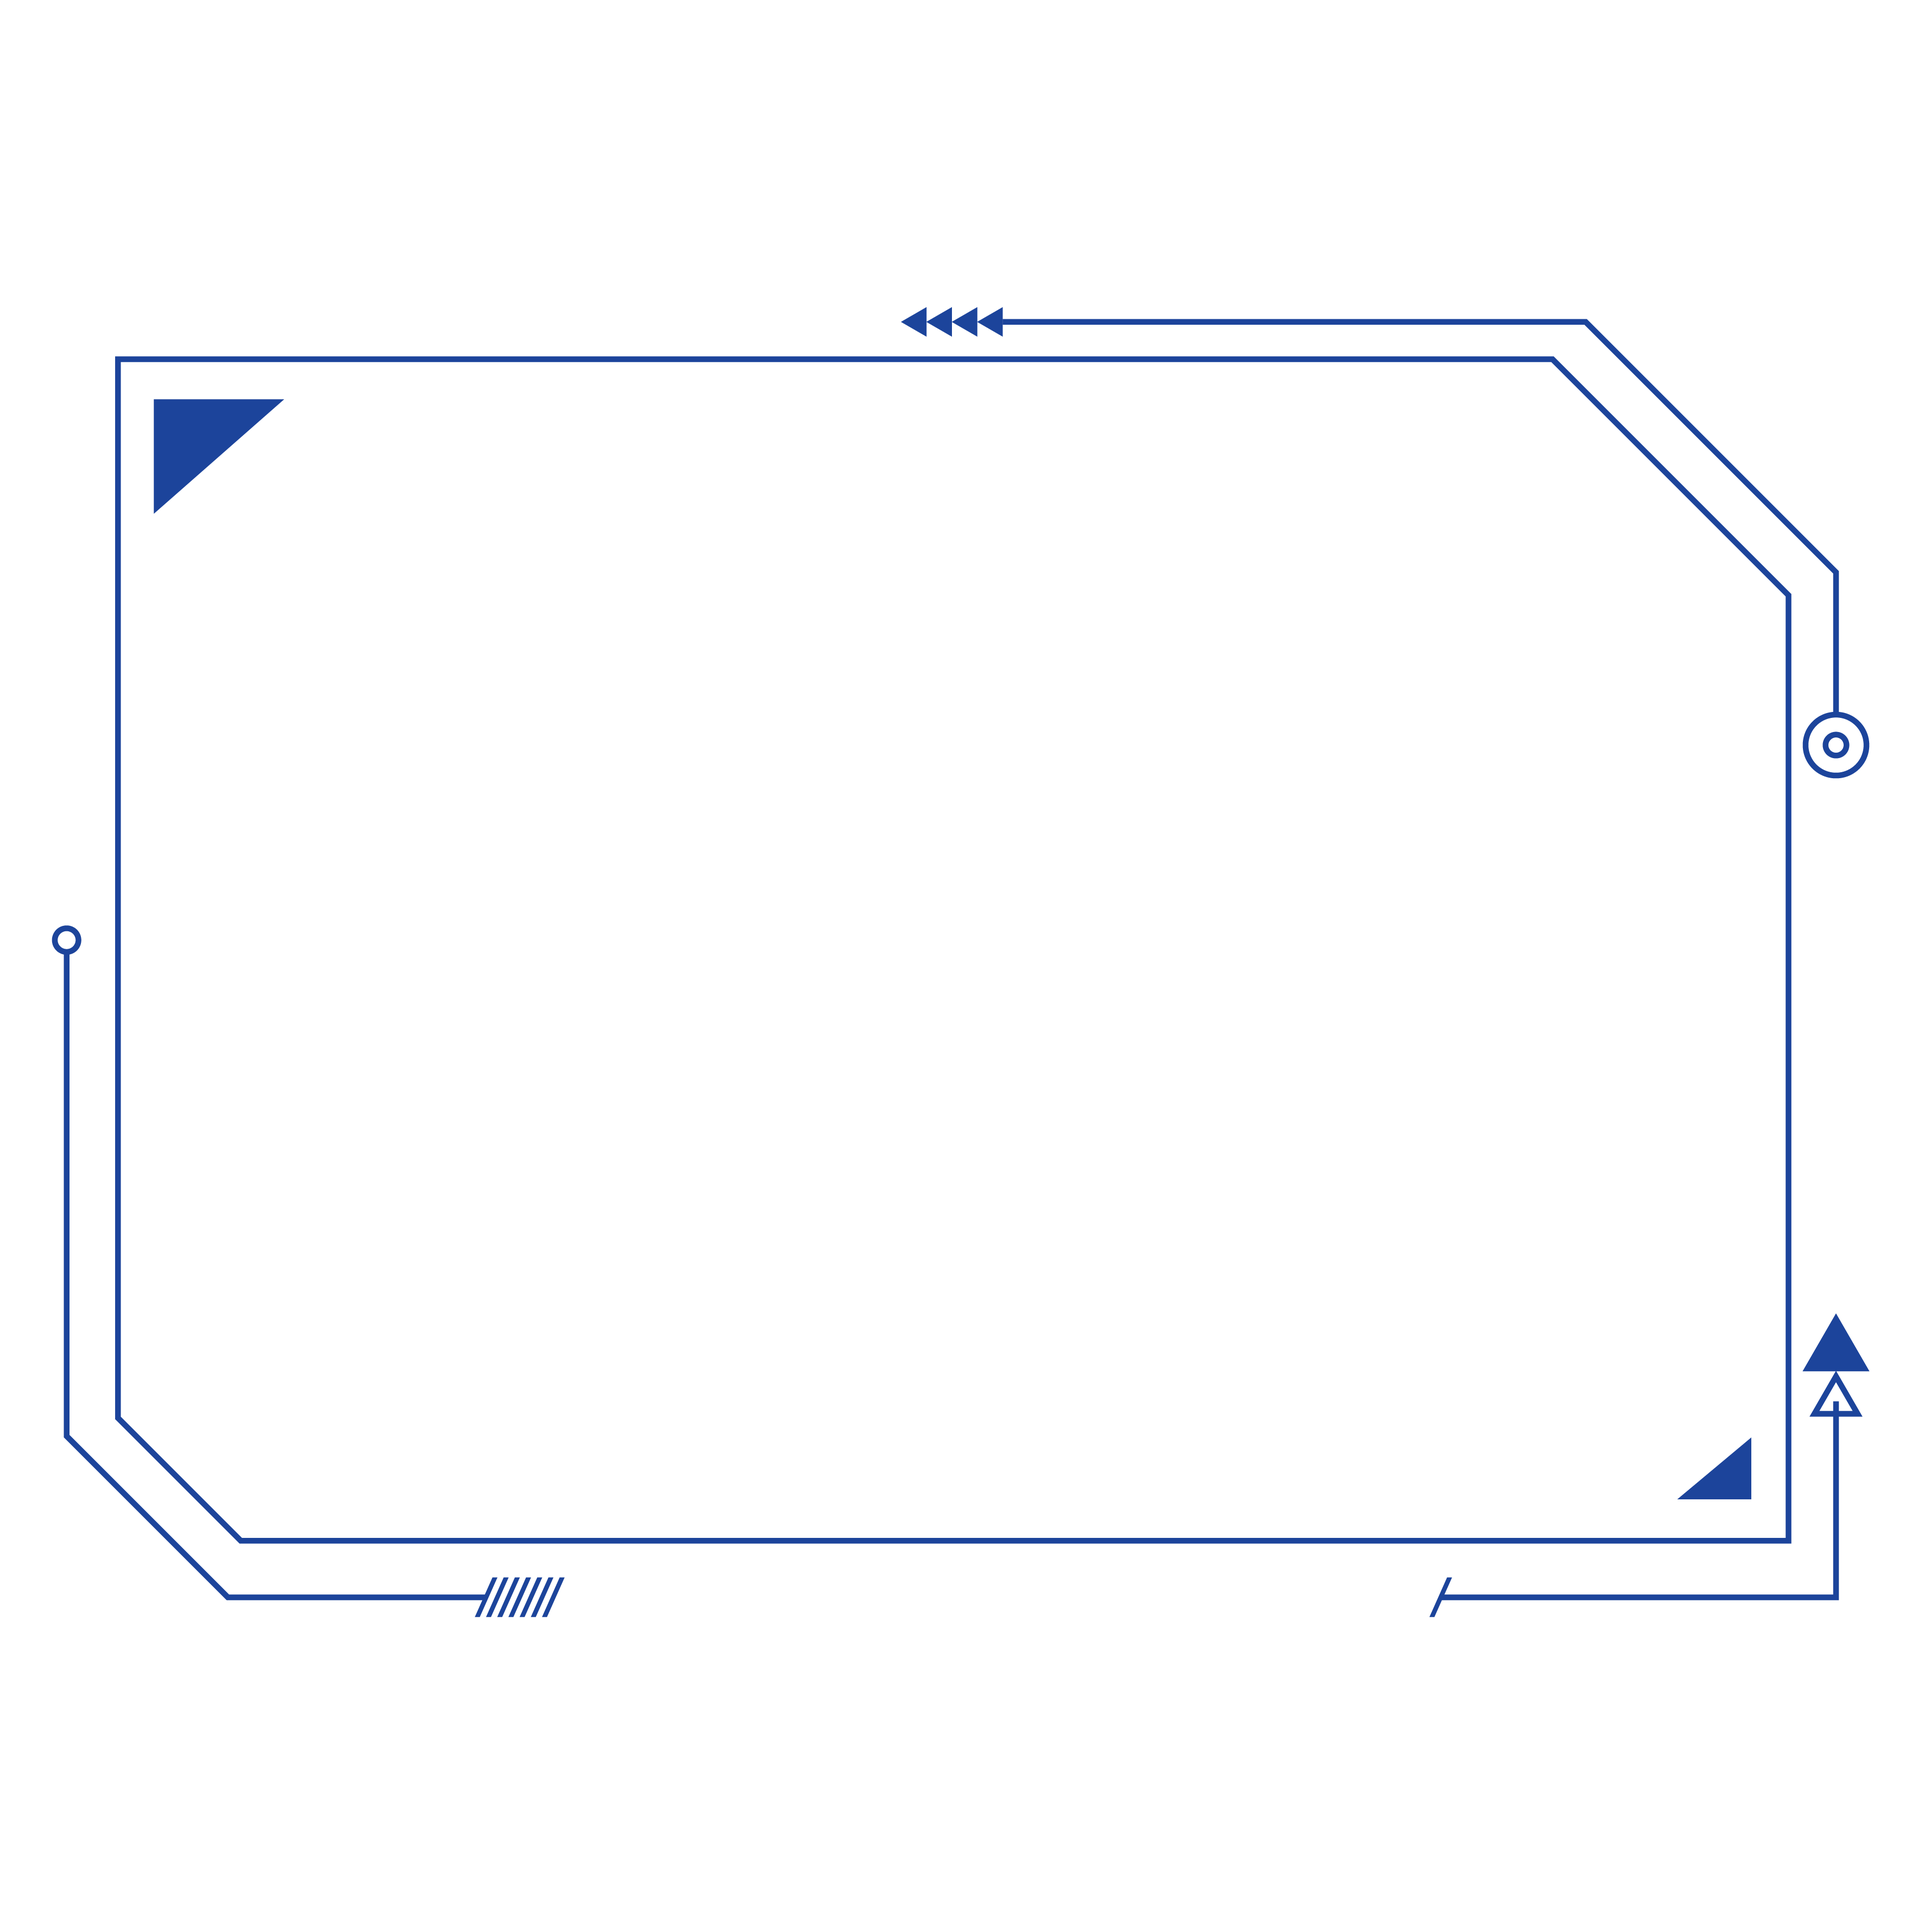
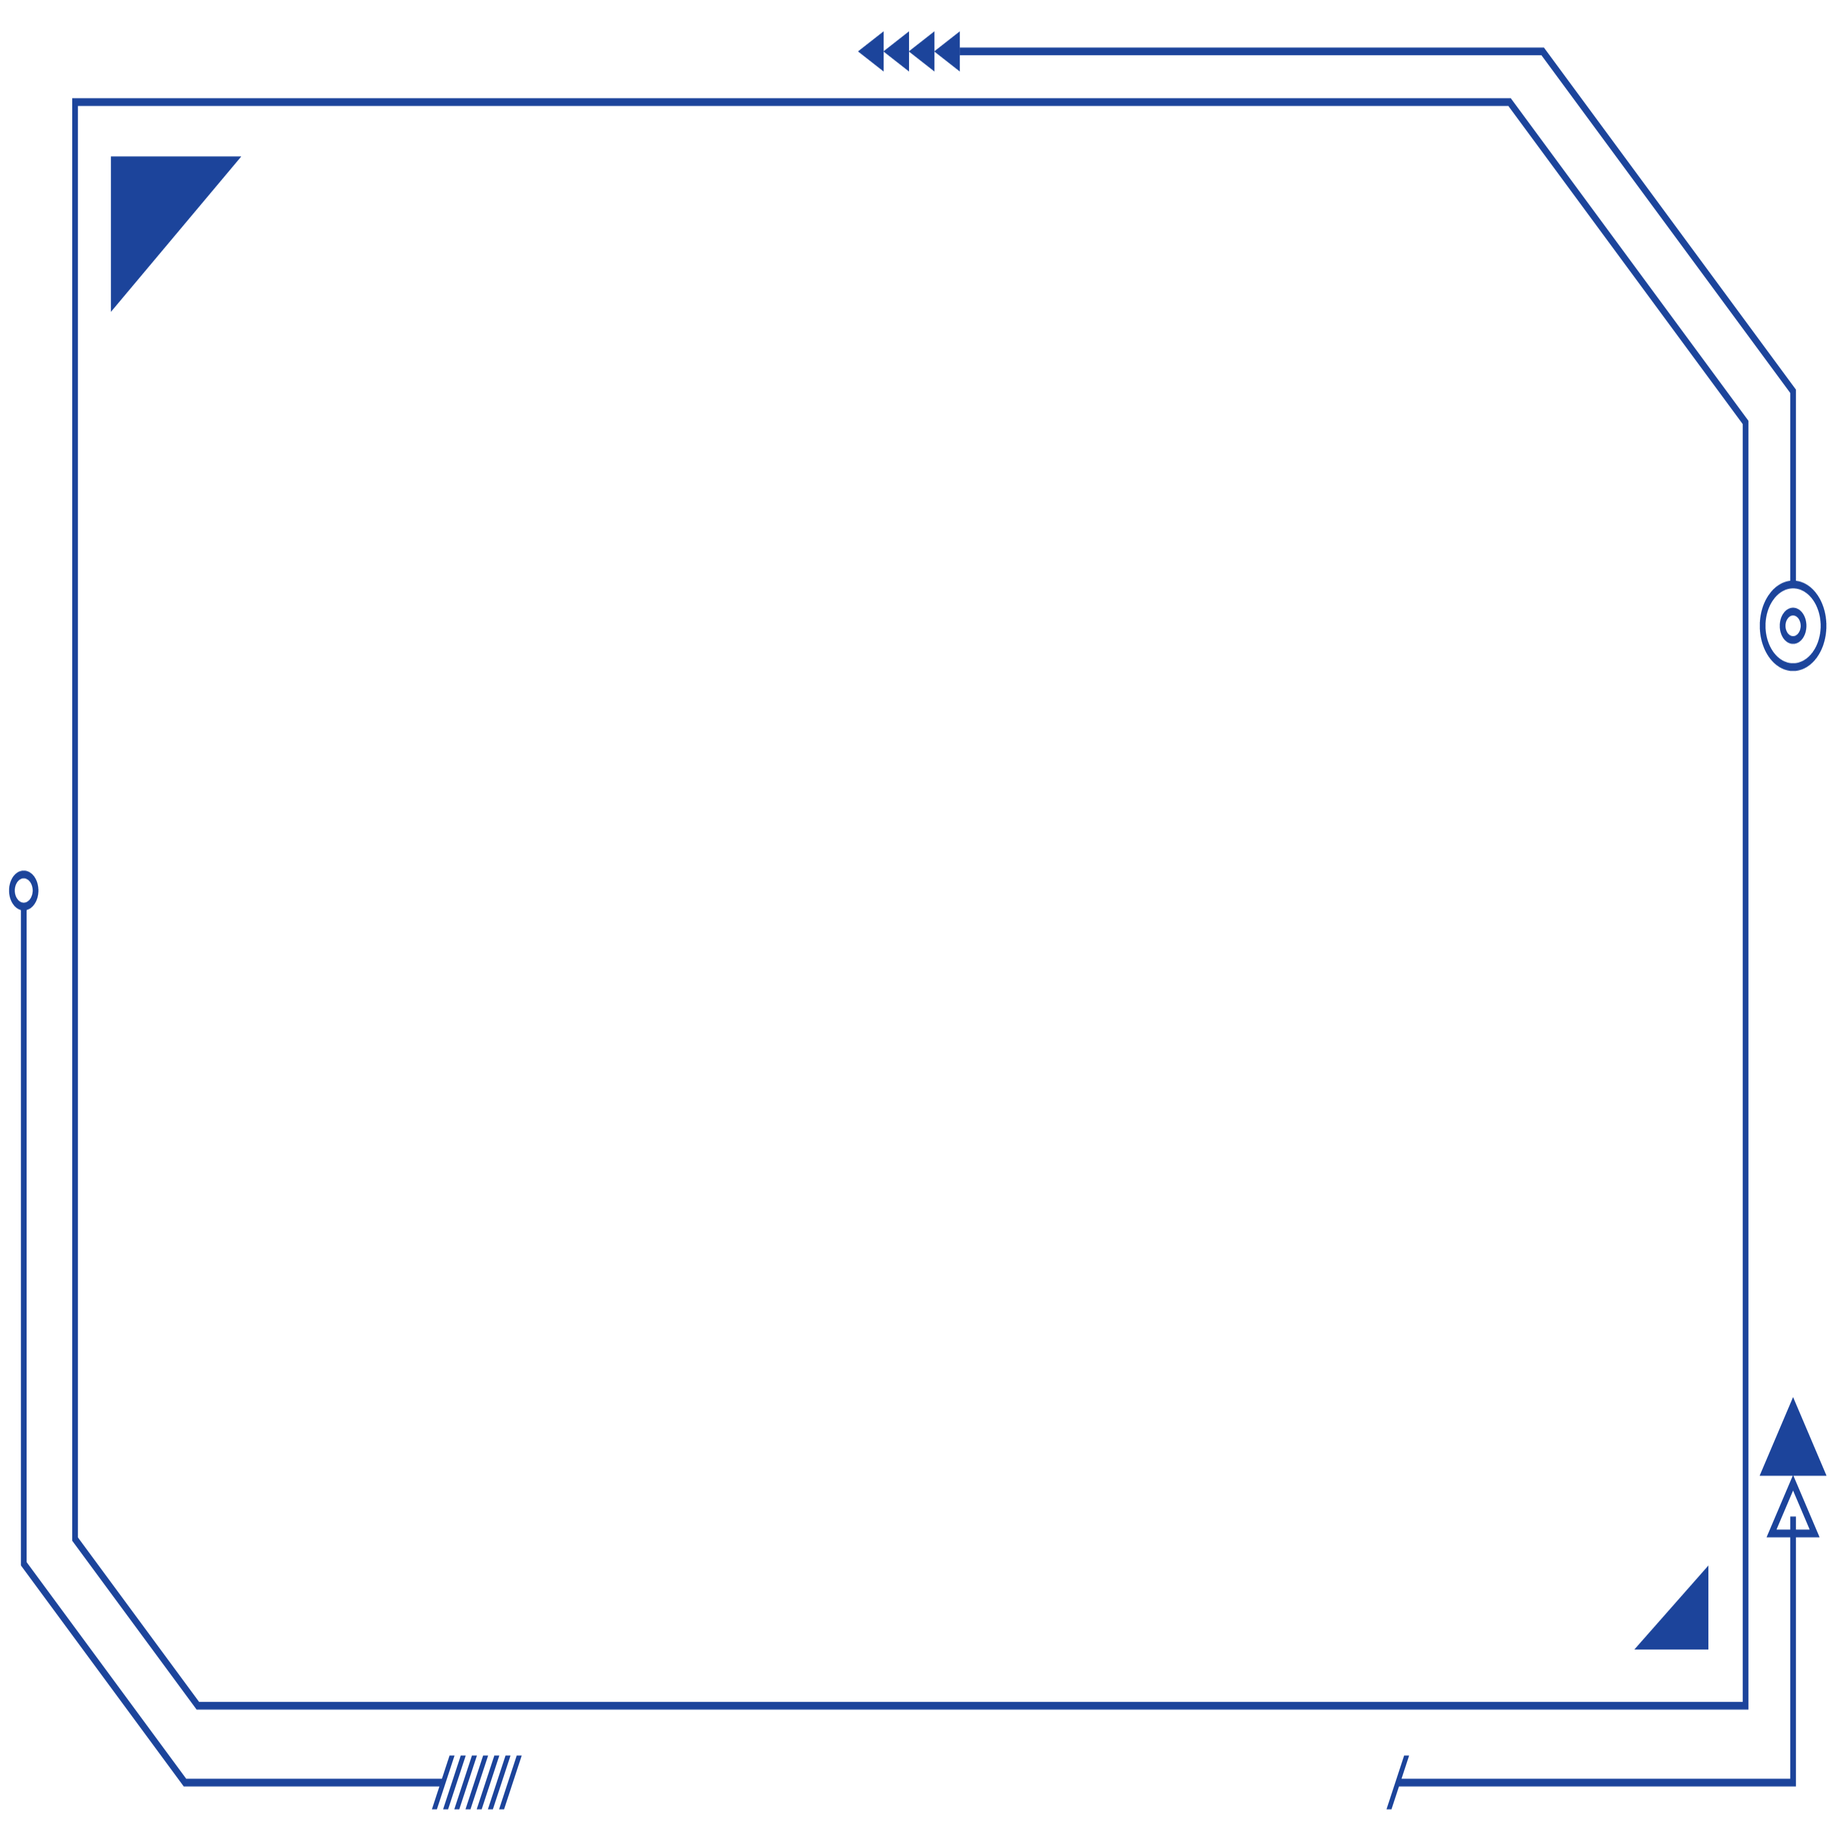
07042106

Changed region(s): [[0.0, 0.0, 0.9938, 0.9938], [0.7453, 0.9627, 0.9627, 0.9938]]

diff --git a/gamemap.cpp b/gamemap.cpp
@@ -4,8 +4,8 @@
 GameMap::GameMap(QObject *parent)
     : QObject{parent}
 {
-    mRow = 20;
-    mCol = 20;
+    mRow = N;
+    mCol = N;
 
     curRow = 0;
     curCol = 0;
@@ -17,18 +17,19 @@ GameMap::GameMap(QObject *parent)
 void GameMap::Paint(QPainter* _p, QPoint _Pos) {
     for(int i=0; i<mRow; i++) {
         for(int j=0; j<mCol; j++) {
-
-            QString imgUrl= ":/image/chien-pao.png";
-            if(mPArr[i][j] > 3) continue;
+            QString imgUrl;
             switch(mPArr[i][j]) {
             case Grass:
+                //imgUrl = ":/image/tree.png"; break;
                 continue;
             case Cigar:
-                imgUrl = ":/image/1305.jpg"; break;
+                imgUrl = ":/image/cigar.png"; break;
             case Elec:
-                imgUrl = ":/image/1305.jpg"; break;
+                imgUrl = ":/image/elec.png"; break;
             case Jiu:
-                imgUrl = ":/image/1305.jpg"; break;
+                imgUrl = ":/image/ironbundle.png"; break;
+            case Mount:
+                imgUrl = ":/image/tree.png"; break;
             }
             QImage img(imgUrl);
             _p->drawImage(QRect(_Pos.x() + j*Size, _Pos.y() + i*Size, Size, Size), img);
@@ -38,16 +39,16 @@ void GameMap::Paint(QPainter* _p, QPoint _Pos) {
     //_p->drawImage(QRect(600, 20, 200, 100), QImage(":/image/title.png"));
 }
 
-void GameMap::InitByFile(QString fileName) {
+//void GameMap::InitByFile(QString fileName) {
 
-}
+//}
 
 void GameMap::InitByRand() {
     srand(time(NULL));
     for(int i=0; i<mRow; ++i) {
         for(int j=0; j<mCol; ++j) {
-            mPArr[i][j] = rand() % 100;
-            if(mPArr[i][j] > 3) mPArr[i][j] = 0;
+            mPArr[i][j] = rand() % 15;
+            if(mPArr[i][j] > 5) mPArr[i][j] = 0;
         }
     }
     mPArr[0][0] = 0;

diff --git a/widget.cpp b/widget.cpp
@@ -17,9 +17,10 @@ Widget1::Widget1(QWidget *parent)
     mTimer = new QTimer(this);
     mTimer->start(100);
 
+    qDebug() << "Qt version:" << qVersion();
     // 定时调用更新函数
     connect(mTimer, &QTimer::timeout, [this]() {this->update(); });
-    setFixedSize(1200, 850);
+    setFixedSize(900, 800);
     
     active = false;
     pick = false;
@@ -35,10 +36,10 @@ Widget1::~Widget1()
 void Widget1::paintEvent(QPaintEvent* event) {
     mMapPainter->begin(this);
 
-    mMapPainter->setOpacity(0.7);
-    mMapPainter->drawImage(QRect(0, 0, 1200, 850), QImage("://image/cboat.jpg"));
+    mMapPainter->setOpacity(0.2);
+    mMapPainter->drawImage(QRect(0, 0, 1200, 850), QImage(":/image/snows.jpg"));
     mMapPainter->setOpacity(1);
-    //mMapPainter->drawImage(QRect(0, 0, 550, 550), QImage("://image/border.png"));
+    mMapPainter->drawImage(QRect(0, 0, 900, 800), QImage("://image/border.png"));
 
 
     //设置主窗口背景颜色
@@ -48,9 +49,9 @@ void Widget1::paintEvent(QPaintEvent* event) {
 //    painter.setBrush(color);
 //    painter.drawRect(this->rect());
 
-    mMap->Paint(mMapPainter, QPoint(20, 20));
+    mMap->Paint(mMapPainter, QPoint(50, 50));
     
-    mRole->Paint(mMapPainter, QPoint(20, 20));
+    mRole->Paint(mMapPainter, QPoint(50, 50));
 
     if(active) {
         mRole->PaintDialog(mMapPainter, mMap->mPArr[mRole->mRow][mRole->mCol]);
@@ -113,7 +114,7 @@ void Widget1::keyPressEvent(QKeyEvent* event) {
 void Widget1::Collision(int _dRow, int _dCol) {
     int newRow = mRole->mRow + _dRow;
     int newCol = mRole->mCol + _dCol;
-    if(newRow < 0 or newRow >= 20 or newCol < 0 or newCol >= 20) return ;
+    if(newRow < 0 or newRow >= N or newCol < 0 or newCol >= N) return ;
 //    if(mPMap->mPArr[newRow][newCol] == 1) {
 //        return;
 //    }

diff --git a/role.cpp b/role.cpp
@@ -7,7 +7,7 @@ Role::Role(QObject *parent)
 {
     mRow = 0;
     mCol = 0;
-    mImg = QImage(":/image/ironbundle.png");
+    mImg = QImage(":/image/chien-pao.png");
 
     //mPaintPos = QPoint(mCol, mRow) * mImg.width();
 
@@ -26,9 +26,9 @@ void Role::Paint(QPainter* _p, QPoint _Pos) {
 }
 
 void Role::PaintDialog(QPainter* _p, int _type) {
-    _p->drawImage(QRect(240, 300, 800, 480), QImage(":/image/dialog.png"));
+    _p->drawImage(QRect(220, 280, 800, 600), QImage(":/image/dialog.png"));
     //_p->setPen(QPen(Qt::black, 50));
     //_p->drawText(QRect(345, 540, 400, 200), Qt::AlignCenter, "丁真");
     _p->setFont(QFont("思源宋体", 16));
-    _p->drawText(QRect(345, 560, 400, 200), Qt::AlignCenter, dialog[_type][0]);
+    _p->drawText(QRect(345, 600, 400, 200), Qt::AlignCenter, dialog[_type][0]);
 }

diff --git a/const.h b/const.h
@@ -13,7 +13,15 @@ enum {
     Mount,
 };
 
-constexpr int Size = 25;
-constexpr int N = 20;
+constexpr int Size = 50;
+constexpr int N = 12;
 
 constexpr int Inix = 40, Iniy = 40;
+
+const QString dialog[10][2] = {
+    {"",""},
+    {"你不幸碰触了传统香烟，生命值-5",""},
+    {"你捡到了芋泥啵啵味烟弹，攻击力+10",""},
+    {"然日卡在哪里？\n然日卡……然日卡……回到然日卡……",""},
+    {"远处的雪山……",""},
+    };

diff --git a/role.h b/role.h
@@ -6,14 +6,6 @@
 #include <QImage>
 #include "const.h"
 
-const QString dialog[10][2] = {
-    {"",""},
-    {"你不幸碰触了传统香烟，生命值-5",""},
-    {"你捡到了芋泥啵啵味烟弹，攻击力+10",""},
-    {"然日卡在哪里？\n然日卡……然日卡……",""},
-    {"远处的雪山……",""},
-    };
-
 class Role : public QObject
 {
     Q_OBJECT
